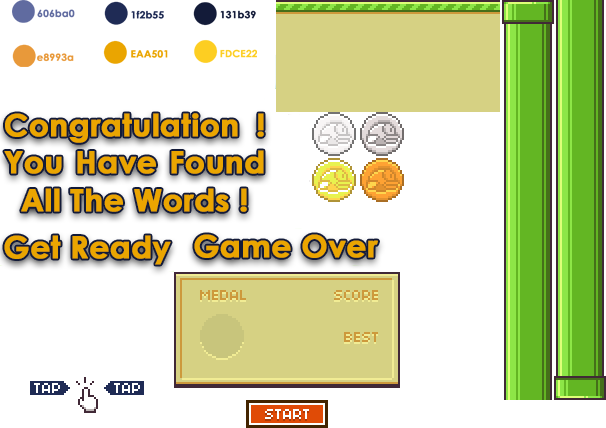
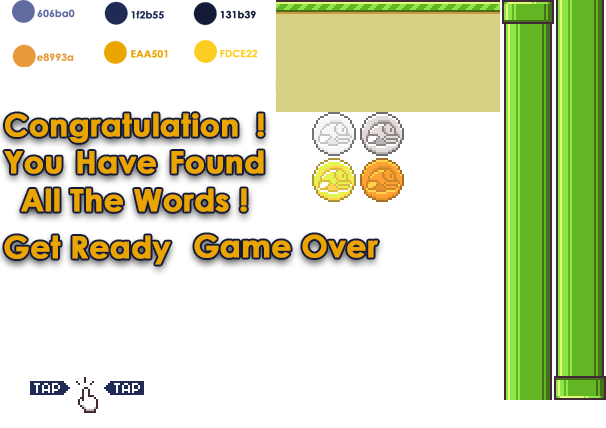
End (médailles: game over)

Changed region(s): [[0.2673, 0.6379, 0.6832, 1.0]]

diff --git a/script/game.js b/script/game.js
@@ -9,6 +9,7 @@ let logo        //  logo witch replace bird
 let bgImage     //  background image
 let trunk       //  Image for the trunk 
 let trunk2
+let medails
 let words        //  words display on the top
 let bg          //  background
 let bird        //  bird: yellow
@@ -42,6 +43,8 @@ ctx = cvs.getContext('2d')
 description = document.getElementById('description')
 theme1 = new Image()
 theme1.src = 'img/og-theme.png'
+medails = new Image()
+medails.src = 'img/medailles.png'
 bgImage = new Image()
 bgImage.src = 'img/bg.png'
 trunk = new Image()
@@ -66,116 +69,116 @@ SFX_SWOOSH.src = 'audio/sfx_swooshing.wav';
 
 //confetti
 
-(function() {
-	startConfetti = startConfettiInner;
-	stopConfetti = stopConfettiInner;
-	toggleConfetti = toggleConfettiInner;
-	removeConfetti = removeConfettiInner;
-	let colors = ["DodgerBlue", "OliveDrab", "Gold", "Pink", "SlateBlue", "LightBlue", "Violet", "PaleGreen", "SteelBlue", "SandyBrown", "Chocolate", "Crimson"]
-	let streamingConfetti = false;
-	let animationTimer = null;
-	let particles = [];
-	let waveAngle = 0;
-	
-	function resetParticle(particle, width, height) {
-		particle.color = colors[(Math.random() * colors.length) | 0];
-		particle.x = Math.random() * width;
-		particle.y = Math.random() * height - height;
-		particle.diameter = Math.random() * 10 + 5;
-		particle.tilt = Math.random() * 10 - 10;
-		particle.tiltAngleIncrement = Math.random() * 0.07 + 0.05;
-		particle.tiltAngle = 0;
-		return particle;
-	}
+(function () {
+    startConfetti = startConfettiInner;
+    stopConfetti = stopConfettiInner;
+    toggleConfetti = toggleConfettiInner;
+    removeConfetti = removeConfettiInner;
+    let colors = ["DodgerBlue", "OliveDrab", "Gold", "Pink", "SlateBlue", "LightBlue", "Violet", "PaleGreen", "SteelBlue", "SandyBrown", "Chocolate", "Crimson"]
+    let streamingConfetti = false;
+    let animationTimer = null;
+    let particles = [];
+    let waveAngle = 0;
 
-	function startConfettiInner() {
-		let width = window.innerWidth;
-		let height = window.innerHeight;
-		window.requestAnimFrame = (function() {
-			return window.requestAnimationFrame ||
-				window.webkitRequestAnimationFrame ||
-				window.mozRequestAnimationFrame ||
-				window.oRequestAnimationFrame ||
-				window.msRequestAnimationFrame ||
-				function (callback) {
-					return window.setTimeout(callback, 16.6666667);
-				};
-		})();
-		let canvas = document.getElementById("game");
-		let context = canvas.getContext("2d");
-		while (particles.length < maxParticleCount)
-			particles.push(resetParticle({}, width, height));
-		streamingConfetti = true;
-		if (animationTimer === null) {
-			(function runAnimation() {
-				context.clearRect(0, 0, window.innerWidth, window.innerHeight);
-				if (particles.length === 0)
-					animationTimer = null;
-				else {
-					updateParticles();
-					drawParticles(context);
-					animationTimer = requestAnimFrame(runAnimation);
-				}
-			})();
-		}
-	}
+    function resetParticle(particle, width, height) {
+        particle.color = colors[(Math.random() * colors.length) | 0];
+        particle.x = Math.random() * width;
+        particle.y = Math.random() * height - height;
+        particle.diameter = Math.random() * 10 + 5;
+        particle.tilt = Math.random() * 10 - 10;
+        particle.tiltAngleIncrement = Math.random() * 0.07 + 0.05;
+        particle.tiltAngle = 0;
+        return particle;
+    }
 
-	function stopConfettiInner() {
-		streamingConfetti = false;
-	}
+    function startConfettiInner() {
+        let width = window.innerWidth;
+        let height = window.innerHeight;
+        window.requestAnimFrame = (function () {
+            return window.requestAnimationFrame ||
+                window.webkitRequestAnimationFrame ||
+                window.mozRequestAnimationFrame ||
+                window.oRequestAnimationFrame ||
+                window.msRequestAnimationFrame ||
+                function (callback) {
+                    return window.setTimeout(callback, 16.6666667);
+                };
+        })();
+        let canvas = document.getElementById("game");
+        let context = canvas.getContext("2d");
+        while (particles.length < maxParticleCount)
+            particles.push(resetParticle({}, width, height));
+        streamingConfetti = true;
+        if (animationTimer === null) {
+            (function runAnimation() {
+                context.clearRect(0, 0, window.innerWidth, window.innerHeight);
+                if (particles.length === 0)
+                    animationTimer = null;
+                else {
+                    updateParticles();
+                    drawParticles(context);
+                    animationTimer = requestAnimFrame(runAnimation);
+                }
+            })();
+        }
+    }
 
-	function removeConfettiInner() {
-		stopConfetti();
-		particles = [];
-	}
+    function stopConfettiInner() {
+        streamingConfetti = false;
+    }
 
-	function toggleConfettiInner() {
-		if (streamingConfetti)
-			stopConfettiInner();
-		else
-			startConfettiInner();
-	}
+    function removeConfettiInner() {
+        stopConfetti();
+        particles = [];
+    }
 
-	function drawParticles(context) {
-		let particle;
-		let x;
-		for (let i = 0; i < particles.length; i++) {
-			particle = particles[i];
-			context.beginPath();
-			context.lineWidth = particle.diameter;
-			context.strokeStyle = particle.color;
-			x = particle.x + particle.tilt;
-			context.moveTo(x + particle.diameter / 2, particle.y);
-			context.lineTo(x, particle.y + particle.tilt + particle.diameter / 2);
-			context.stroke();
-		}
-	}
+    function toggleConfettiInner() {
+        if (streamingConfetti)
+            stopConfettiInner();
+        else
+            startConfettiInner();
+    }
 
-	function updateParticles() {
-		let width = window.innerWidth;
-		let height = window.innerHeight;
-		let particle;
-		waveAngle += 0.01;
-		for (let i = 0; i < particles.length; i++) {
-			particle = particles[i];
-			if (!streamingConfetti && particle.y < -15)
-				particle.y = height + 100;
-			else {
-				particle.tiltAngle += particle.tiltAngleIncrement;
-				particle.x += Math.sin(waveAngle);
-				particle.y += (Math.cos(waveAngle) + particle.diameter + particleSpeed) * 0.5;
-				particle.tilt = Math.sin(particle.tiltAngle) * 15;
-			}
-			if (particle.x > width + 20 || particle.x < -20 || particle.y > height) {
-				if (streamingConfetti && particles.length <= maxParticleCount)
-					resetParticle(particle, width, height);
-				else {
-					particles.splice(i, 1);
-					i--;
-				}
-			}
-		}
-	}
+    function drawParticles(context) {
+        let particle;
+        let x;
+        for (let i = 0; i < particles.length; i++) {
+            particle = particles[i];
+            context.beginPath();
+            context.lineWidth = particle.diameter;
+            context.strokeStyle = particle.color;
+            x = particle.x + particle.tilt;
+            context.moveTo(x + particle.diameter / 2, particle.y);
+            context.lineTo(x, particle.y + particle.tilt + particle.diameter / 2);
+            context.stroke();
+        }
+    }
+
+    function updateParticles() {
+        let width = window.innerWidth;
+        let height = window.innerHeight;
+        let particle;
+        waveAngle += 0.01;
+        for (let i = 0; i < particles.length; i++) {
+            particle = particles[i];
+            if (!streamingConfetti && particle.y < -15)
+                particle.y = height + 100;
+            else {
+                particle.tiltAngle += particle.tiltAngleIncrement;
+                particle.x += Math.sin(waveAngle);
+                particle.y += (Math.cos(waveAngle) + particle.diameter + particleSpeed) * 0.5;
+                particle.tilt = Math.sin(particle.tiltAngle) * 15;
+            }
+            if (particle.x > width + 20 || particle.x < -20 || particle.y > height) {
+                if (streamingConfetti && particles.length <= maxParticleCount)
+                    resetParticle(particle, width, height);
+                else {
+                    particles.splice(i, 1);
+                    i--;
+                }
+            }
+        }
+    }
 })();
 
 
@@ -570,7 +573,7 @@ score = {
             imgX: 1050
         }
     ],
-    current: 0,
+    current: 42,
     best: null, // DO THIS STRETCH GOAL
     //values for drawing mapped numbers on canvas
     x: cvs.width / 2,
@@ -720,12 +723,31 @@ gameOver = {
     y: cvs.height / 2 - 160,
     w: 226,
     h: 160,
+
+    xmedails: (cvs.width / 2) - 50,
     //object's render function that utilizes all above values to draw image onto canvas
     render: function () {
         //only draw this if the game state is on game over
         if (gameState.current == gameState.gameOver) {
             ctx.drawImage(theme1, this.imgX, this.imgY, this.width, this.height, this.x, this.y, this.w, this.h)
             description.style.visibility = "visible"
+            console.log(score.current)
+            if (score.current <= 11) {
+                ctx.drawImage(medails, 0, 0, 2034, 2034, this.xmedails, this.xmedails + 50, 100, 100)
+                return;
+            }
+            if (score.current > 40) {
+                ctx.drawImage(medails, 2069, 2069, 2034, 2034, this.xmedails, this.xmedails + 50, 100, 100)
+                return;
+            }
+            if (score.current > 25) {
+                ctx.drawImage(medails, 0, 2069, 2034, 2034, this.xmedails, this.xmedails + 50, 100, 100)
+                return;
+            }
+            if (score.current > 11) {
+                ctx.drawImage(medails, 2069, 0, 2034, 2034, this.xmedails, this.xmedails + 50, 100, 100)
+                return;
+            }
         }
     }
 }
@@ -741,7 +763,7 @@ win = {
     w: 250,
     h: 100,
     render: function () {
-        
+
         if (gameState.current == gameState.won) {
             startConfetti();
             ctx.drawImage(theme1, this.imgX, this.imgY, this.width, this.height, this.x, this.y, this.w, this.h)
